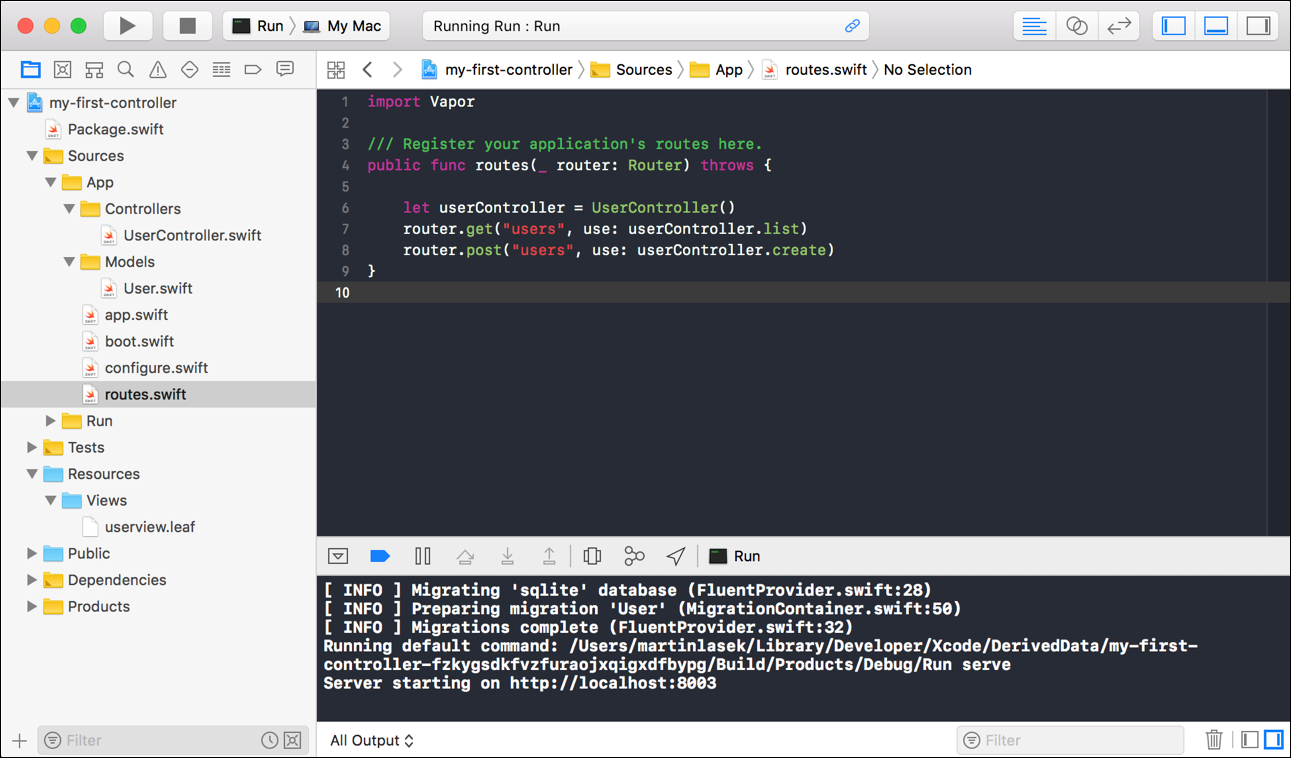
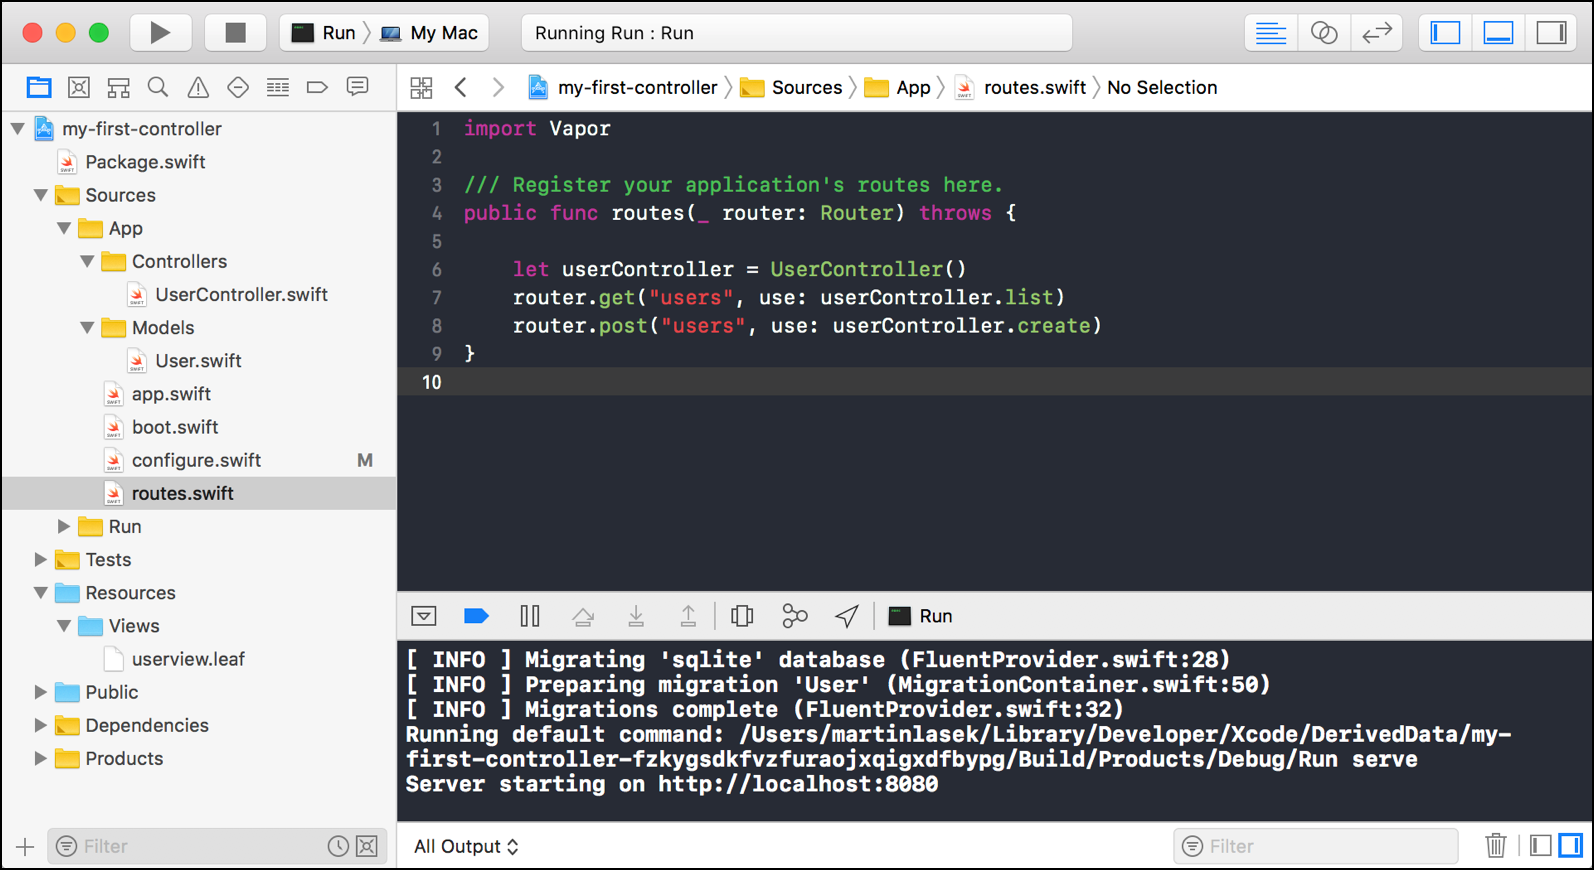
removed custom port / updated image to display default port

diff --git a/Sources/App/configure.swift b/Sources/App/configure.swift
@@ -14,13 +14,11 @@ public func configure(
     try routes(router)
     services.register(router, as: Router.self)
 
-    let myService = NIOServerConfig.default(port: 8003)
-    services.register(myService)
-
     let leafProvider = LeafProvider()
     try services.register(leafProvider)
-    try services.register(FluentSQLiteProvider())
     config.prefer(LeafRenderer.self, for: ViewRenderer.self)
+
+    try services.register(FluentSQLiteProvider())
 
     var databases = DatabasesConfig()
     try databases.add(database: SQLiteDatabase(storage: .memory), as: .sqlite)
